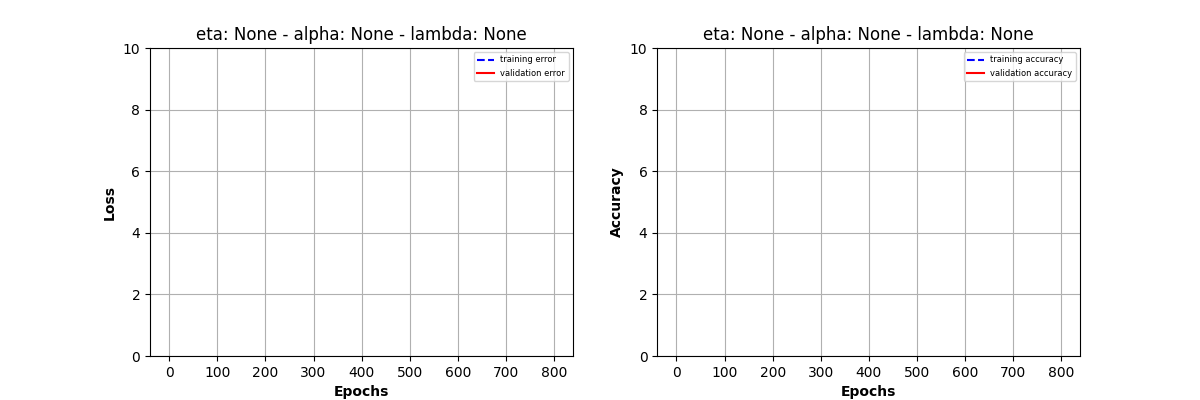
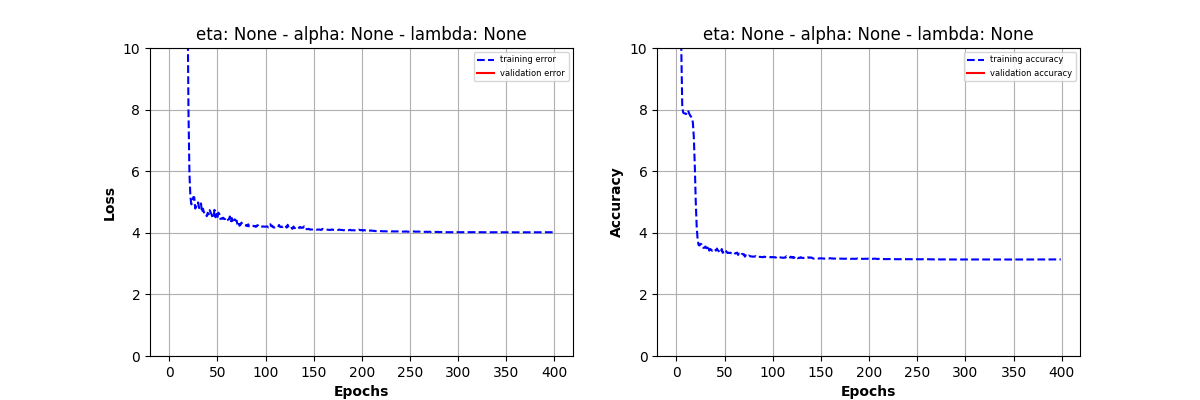
added plot gae_cloud

diff --git a/src/cup_gs.py b/src/cup_gs.py
@@ -33,7 +33,8 @@ if __name__ == '__main__':
     # for p in best_params:
     #     print(p)
 
-    best_model, best_params = best_models[2], best_params[2]
+    best_model, best_params = best_models[0], best_params[0]
+    best_params['epochs'] = 400
     best_model.compile(opt='sgd', **best_params)
     tr_error_values, tr_metric_values, val_error_values, val_metric_values = best_model.fit(
         tr_x=devset_x, tr_y=devset_y, disable_tqdm=False, **best_params)
